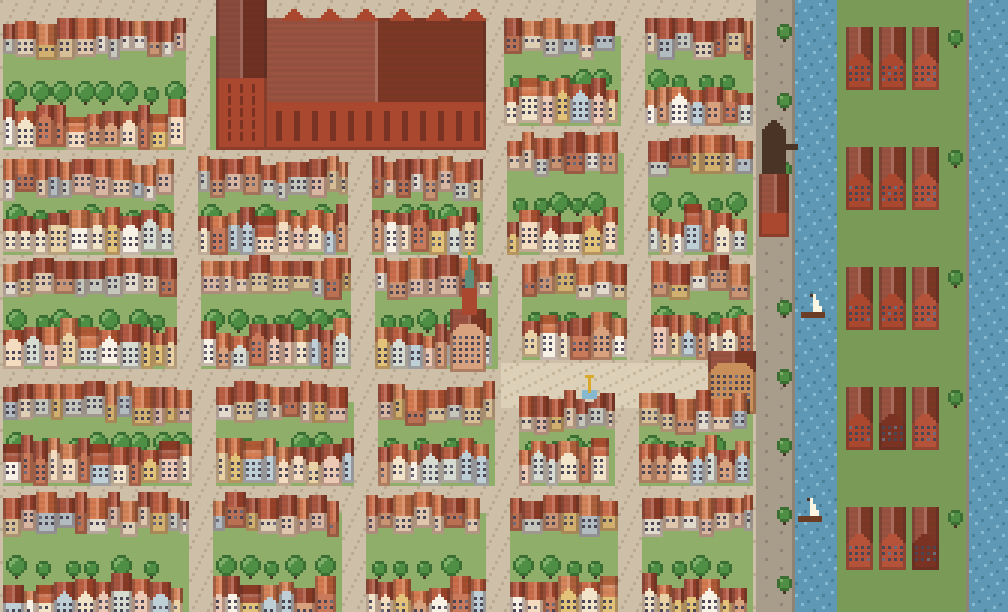
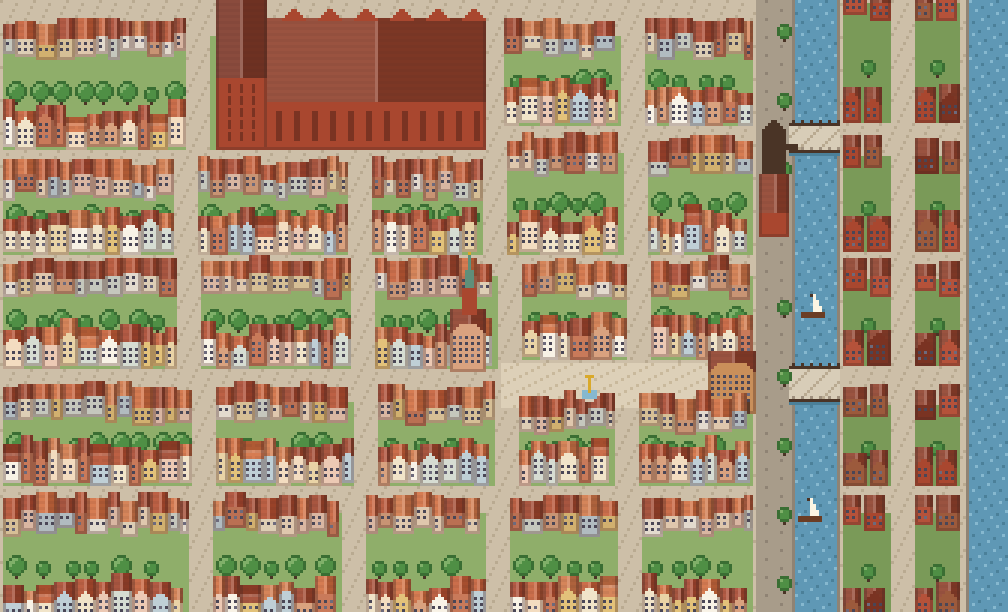
Map: streets on Granary Island and two bridges from the mainland
- The island gets cobbled streets: one down the middle and four across,
  with brick granaries (stepped gables) and green yards in the blocks.
- Two bridges cross the Motława: the Green Bridge straight on from the
  Green Gate at Długi Targ, and a second by the Żuraw in line with
  Mariacka. Stone decks, wooden railings, shadows on the water.

Changed region(s): [[0.7688, 0.0, 0.9841, 1.0]]

diff --git a/src/ui/pixel/map.ts b/src/ui/pixel/map.ts
@@ -192,11 +192,60 @@ const STREETS: Street[] = [
   { x0: 0, x1: QUAY.x0, y: 166, w: 7 }, // Ogarna
 ];
 
+/** Granary Island: a street down the middle and three across it, two of them carried over the river by bridges. */
+const ISLAND = { x0: RIVER.x1, x1: NEW_RIVER.x0 };
+const ISLAND_SPINE = { x: 301, w: 5 };
+const ISLAND_STREETS: Street[] = [
+  { x0: ISLAND.x0, x1: ISLAND.x1, y: 46, w: 9 },
+  { x0: ISLAND.x0, x1: ISLAND.x1, y: 88, w: 7 },
+  { x0: ISLAND.x0, x1: ISLAND.x1, y: 128, w: 11 },
+  { x0: ISLAND.x0, x1: ISLAND.x1, y: 166, w: 7 },
+];
+/** The Green Bridge, straight on from the Green Gate, and a second bridge in line with Mariacka. */
+const BRIDGES = [
+  { y: 128, w: 9 },
+  { y: 46, w: 7 },
+];
+
 /** St. Mary's sits in the block north of Piwna. */
 const CHURCH = { x0: 72, x1: 162, y0: 22, y1: 50 };
 
 function streetAt(x: number, y: number): Street | undefined {
-  return STREETS.find((s) => x >= s.x0 && x < s.x1 && Math.abs(y - s.y) <= s.w / 2);
+  return [...STREETS, ...ISLAND_STREETS].find((s) => x >= s.x0 && x < s.x1 && Math.abs(y - s.y) <= s.w / 2);
+}
+
+/** The island's blocks: either side of its middle street, between the streets across it. */
+function islandBlocks(): { x0: number; x1: number; y0: number; y1: number }[] {
+  const columns: [number, number][] = [
+    [ISLAND.x0 + 2, ISLAND_SPINE.x - Math.ceil(ISLAND_SPINE.w / 2) - 1],
+    [ISLAND_SPINE.x + Math.ceil(ISLAND_SPINE.w / 2) + 1, ISLAND.x1 - 2],
+  ];
+  const result: { x0: number; x1: number; y0: number; y1: number }[] = [];
+  for (const [x0, x1] of columns) {
+    let top = 0;
+    for (const s of ISLAND_STREETS) {
+      result.push({ x0, x1, y0: top + 1, y1: Math.floor(s.y - s.w / 2) });
+      top = Math.ceil(s.y + s.w / 2);
+    }
+    result.push({ x0, x1, y0: top + 1, y1: MAP_HEIGHT + 4 });
+  }
+  return result;
+}
+
+/** A bridge across the Motława: a stone deck with wooden railings, and its shadow on the water. */
+function drawBridge(img: Pixels, y: number, w: number): void {
+  const top = Math.floor(y - w / 2);
+  const bottom = Math.ceil(y + w / 2);
+  for (let x = RIVER.x0 - 1; x <= RIVER.x1; x++) {
+    for (let yy = top; yy < bottom; yy++) img.set(x, yy, (x + yy) % 7 === 0 ? C.cobbleDark : C.stone);
+    img.set(x, top - 1, C.timber);
+    img.set(x, bottom, C.timber);
+    img.set(x, bottom + 1, C.waterDark);
+    if (x % 3 === 0) {
+      img.set(x, top - 2, C.timber);
+      img.set(x, bottom - 1, mix(C.stone, C.timber, 0.4));
+    }
+  }
 }
 
 /** The blocks of houses: everything between streets and lanes. */
@@ -256,7 +305,11 @@ export function drawOldTown(): Pixels {
       img.set(river.x0, y, C.quayDark);
     }
   }
-  fill(img, RIVER.x1, 0, NEW_RIVER.x0, MAP_HEIGHT, C.courtyardDark);
+  for (let y = 0; y < MAP_HEIGHT; y++) {
+    for (let x = ISLAND.x0; x < ISLAND.x1; x++) img.set(x, y, (x * 3 + y * 7) % 11 === 0 ? C.cobbleDark : C.cobble);
+  }
+  for (const river of [RIVER, NEW_RIVER]) for (let y = 0; y < MAP_HEIGHT; y++) img.set(river.x1, y, C.quayDark);
+  for (const bridge of BRIDGES) drawBridge(img, bridge.y, bridge.w);
 
   const buildings: Building[] = [];
   const trees: { x: number; y: number; r: number }[] = [];
@@ -327,12 +380,33 @@ export function drawOldTown(): Pixels {
   // Trees along the quay.
   for (let y = 12; y < MAP_HEIGHT; y += 23) if (y < 60 || y > 84) trees.push({ x: QUAY.x1 - 3, y, r: 2 });
 
-  // Granary Island: tall brick granaries with stepped gables, and trees.
-  for (const gy of [30, 70, 110, 150, 190]) {
-    for (let gx = RIVER.x1 + 3; gx < NEW_RIVER.x0 - 8; gx += 11) {
-      buildings.push({ x0: gx, x1: gx + 9, y0: gy - 12, y1: gy, height: 9, wall: rnd.pick([C.brick, C.brickDark, hex('#b5523a')]), roof: C.brickRoof, gable: 'stepped', windows: true });
+  // Granary Island: tall brick granaries with stepped gables along its streets, green yards behind.
+  const granaryWalls = [C.brick, C.brickDark, hex('#b5523a'), hex('#9c5a3c')];
+  for (const block of islandBlocks()) {
+    const depth = block.y1 - block.y0;
+    if (depth < 8) continue;
+    fill(img, block.x0, block.y0, block.x1, Math.min(block.y1, MAP_HEIGHT), C.courtyardDark);
+    for (const side of ['south', 'north'] as const) {
+      for (let x = block.x0; x < block.x1 - 3; ) {
+        const w = Math.min(rnd.int(6, 8), block.x1 - x);
+        const d = rnd.int(4, 6);
+        const height = rnd.int(6, 8);
+        const [y0, y1] = side === 'south' ? [block.y1 - d, block.y1] : [block.y0, block.y0 + d];
+        buildings.push({
+          x0: x,
+          x1: x + w,
+          y0,
+          y1,
+          height: side === 'south' ? height : height - 1,
+          wall: rnd.pick(granaryWalls),
+          roof: C.brickRoof,
+          gable: side === 'south' ? 'stepped' : null,
+          windows: true,
+        });
+        x += w + 1;
+      }
     }
-    trees.push({ x: NEW_RIVER.x0 - 4, y: gy - 16, r: 2 });
+    if (depth > 20) trees.push({ x: block.x0 + Math.floor((block.x1 - block.x0) / 2), y: block.y0 + Math.floor(depth / 2) + 3, r: 2 });
   }
 
   // Draw everything from north to south, so nearer things cover those behind.

diff --git a/project.md b/project.md
@@ -562,3 +562,4 @@ Work in small steps, and test each step in the browser before moving on.
 - 2026-10-01: Character looks: tourists wear straw sun hats and cameras, students carry backpacks, locals wear Kashubian-patterned jumpers, office workers a shirt and tie, foodies a cream scarf; hair colours vary. Waiters wear white aprons; the food critic a black beret; the Friday regular a lemon shirt and flat cap; Tomek has messy ginger hair and a kompot stain; Adrian wears sunglasses. People are drawn facing us or with their backs to us (not diagonally), with a two-step walk. Guests walk from the door (or the street, for the terrace) to their seat, at about 60 world units a second at 1× speed, and back out; those who gave up leave with a 😠.
 - 2026-10-01: Waiters carry the food: when a table's meal is ready, a free waiter walks from their spot by the kitchen to the table with a full tray, pauses to serve, and walks back with the empty tray. If every waiter is already out, the food arrives without a walk.
 - 2026-10-01: Pixel art for the map and icons: the Old Town map is drawn in code from above (streets of gabled houses, the Motława, Granary Island, St. Mary's, the Neptune Fountain, the Green Gate, the Żuraw); street markers, names and rival signs stay as large, clearly lettered buttons on top. Every dish and drink has a pixel icon; cash, stars, weather and Mewa use pixel icons too.
+- 2026-10-01: The map shows Granary Island with its own streets (one down the middle, four across) and two bridges from the mainland: the Green Bridge straight on from the Green Gate at Długi Targ, and a second bridge by the Żuraw in line with Mariacka.
